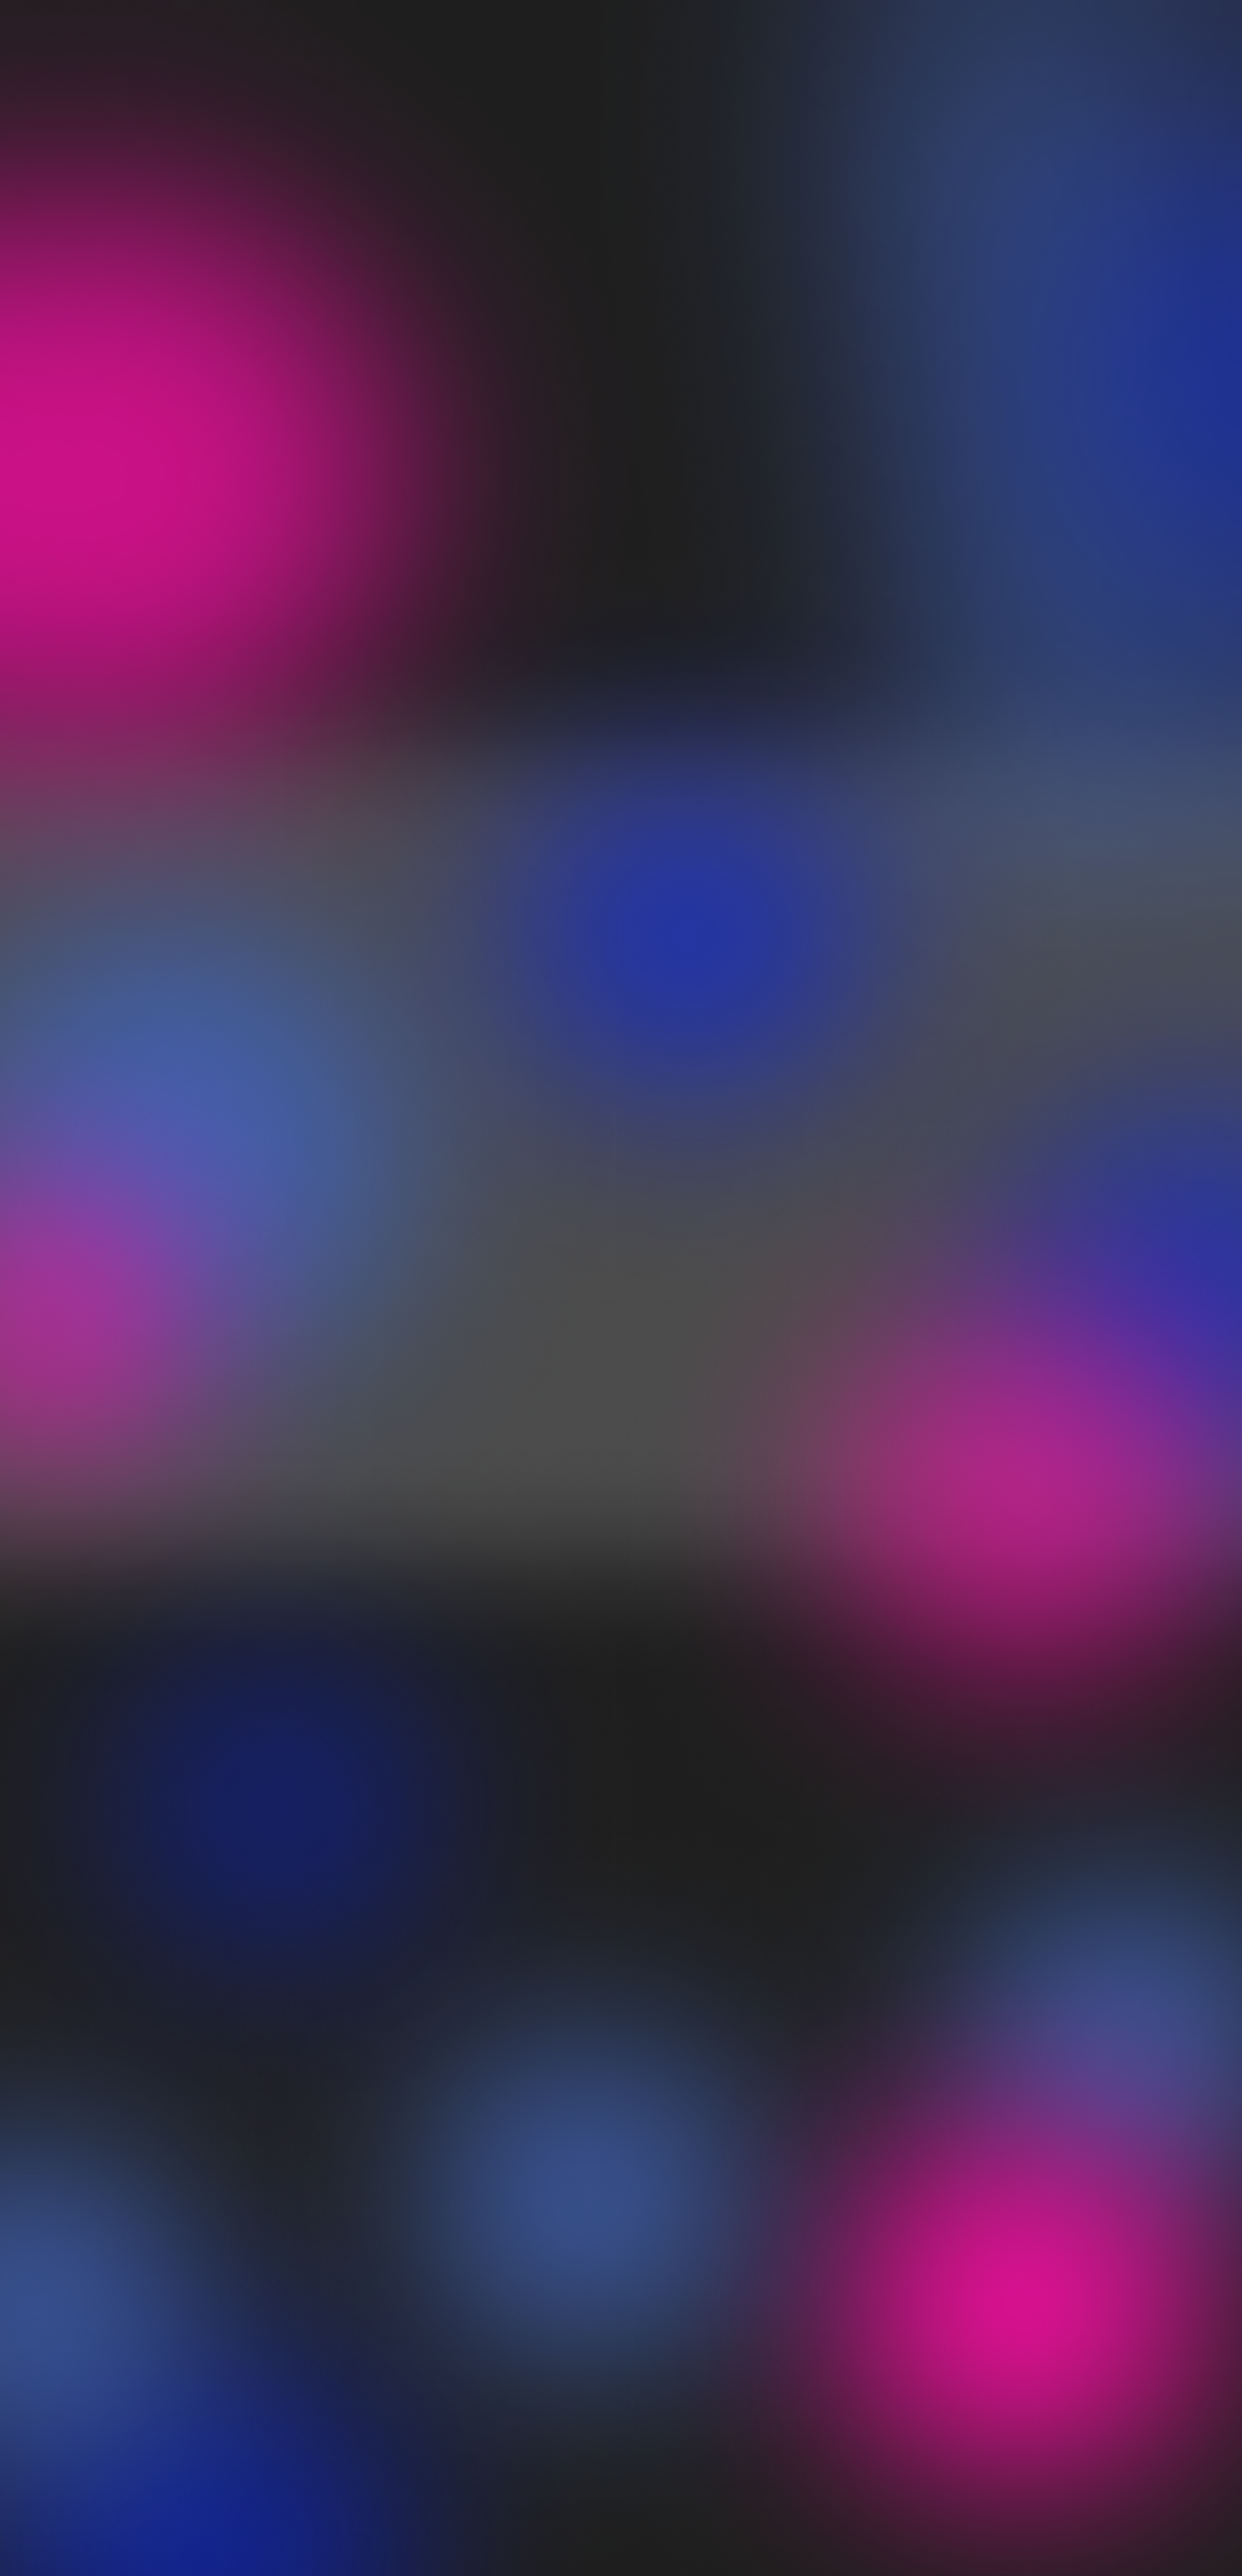
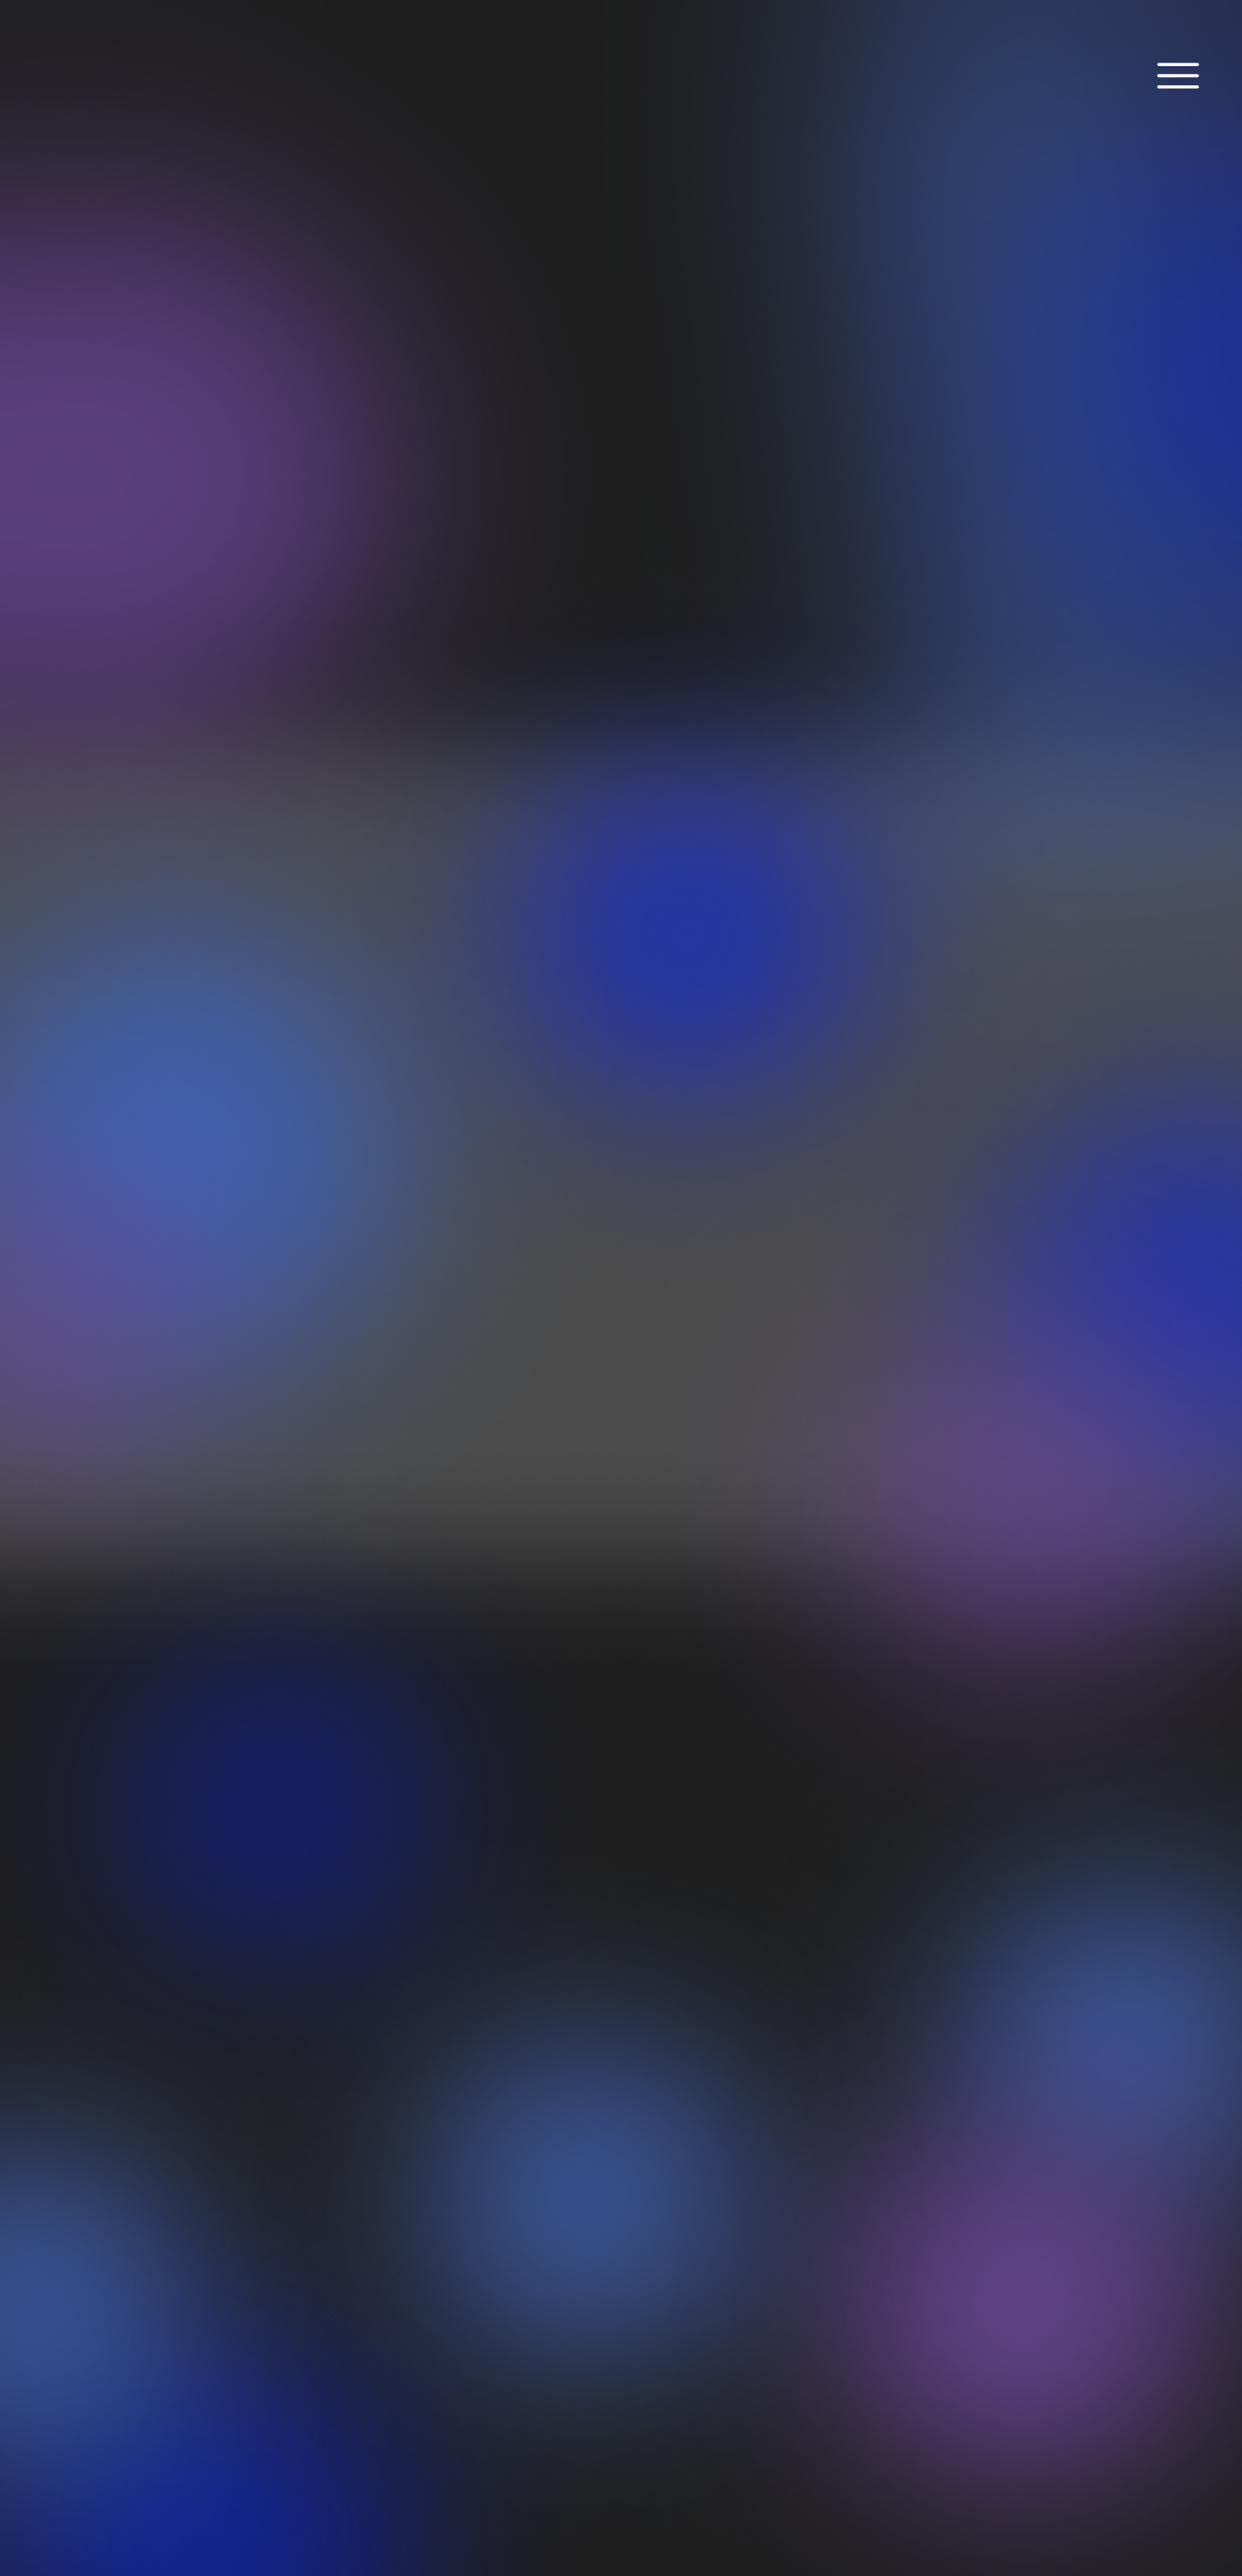
upd(frontend): Cor das labels na home

diff --git a/src/front-end/src/pages/Home.tsx b/src/front-end/src/pages/Home.tsx
@@ -62,19 +62,20 @@ export default function Home()  {
         <Header />
         <div className="flex flex-col md:flex-row justify-between items-center px-6 md:px-10 py-16 gap-10">
           {/* Texto - Fica primeiro no mobile, mas mantém a posição no desktop */}
-          <div className="flex flex-col items-center md:items-center justify-right space-y-5 max-w-[600px] order-1 md:order-1">
-            <h1 className="text-light-white text-[60px] font-bold text-center md:text-left">
-              <span className="">A competição de Portfólios começou!</span>
+          <div className="flex flex-col items-left md:items-left justify-right space-y-5 max-w-[600px] order-1 md:order-1">
+            <h1 className="text-light-white text-[60px] font-bold text-left md:text-left leading-tight">
+              A competição de <br />
+              Portfólios começou!
             </h1>
             {/* <h2 className="text-xl font-semibold text-light-blue text-center md:text-left">Design, Frontend e Backend</h2> */}
             <p className="text-justify justify-center leading-relaxed">
               A competição foi uma ideia para incentivar a criatividade e o espírito competitivo entre os alunos. Explore o <span>portfólio</span> dos alunos e vote no seu projeto favorito! Seu voto é importante para deixar a competição ainda mais interessante.
             </p>
-            <div className="flex gap-4">
-              <button className="px-4 py-2 bg-gradient-to-t from-[#322d92] to-[#882a69] text-light-white rounded-3xl hover:bg-opacity-80 hover:text-dark-black transition">
+            <div className="flex gap-4 items-center justify-center">
+              <button className="px-4 py-2 bg-gradient-to-t from-[#322d92] to-[#8657de] text-light-white rounded-3xl hover:bg-opacity-80 hover:text-dark-black transition">
                 Veja os competidores
               </button>
-              <button className="px-4 py-2 bg-gradient-to-t from-[#322d92] to-[#882a69] text-light-white rounded-3xl hover:bg-opacity-80 hover:text-dark-black transition">
+              <button className="px-4 py-2 bg-gradient-to-t from-[#322d92] to-[#8657de] text-light-white rounded-3xl hover:bg-opacity-80 hover:text-dark-black transition">
                 Participe da competição
               </button>
             </div>
@@ -97,7 +98,7 @@ export default function Home()  {
 
               <h2 className="text-lg text-zinc-50">Objetivo</h2>
               <div className="flex flex-col w-full mb-10 relative">
-                <label className="bg-[#9E2777] shadow-shape px-10 py-5 text-light-white rounded-2xl md:rounded-full transition whitespace-normal text-center max-w-screen-md w-full sm:min-h-[100px] min-h-[150px] flex items-center justify-center relative">
+                <label className="bg-[#162d71] shadow-shape px-10 py-5 text-light-white rounded-2xl md:rounded-full transition whitespace-normal text-center max-w-screen-md w-full sm:min-h-[100px] min-h-[150px] flex items-center justify-center relative">
                   O objetivo principal da competição foi estimular o desenvolvimento dos alunos, o compartilhamento de experiência e um passatempo durante as férias!
                 </label>
                 <img src="cup.png" alt="Img" className="absolute top-20 -left-10 w-32 h-32 sm:-top-5 sm:-left-20 sm:w-40 sm:h-40" />
@@ -105,7 +106,7 @@ export default function Home()  {
 
               <h2 className="text-lg text-zinc-50">Quem está participando?</h2>
               <div className="flex flex-col w-full mb-20 relative">
-                <label className="bg-[#9E2777] shadow-shape px-10 py-5 text-light-white rounded-2xl md:rounded-full transition whitespace-normal text-center max-w-screen-md w-full sm:min-h-[100px] min-h-[150px] flex items-center justify-center relative">
+                <label className="bg-[#162d71] shadow-shape px-10 py-5 text-light-white rounded-2xl md:rounded-full transition whitespace-normal text-center max-w-screen-md w-full sm:min-h-[100px] min-h-[150px] flex items-center justify-center relative">
                   Os participantes são os alunos de Ciências da Computação da turma de CC10.
                 </label>
                 <img src="woman.png" alt="Img" className="absolute top-20 right-[-40px] w-32 h-32 sm:-top-0 sm:right-[-60px] sm:w-40 sm:h-40" />
